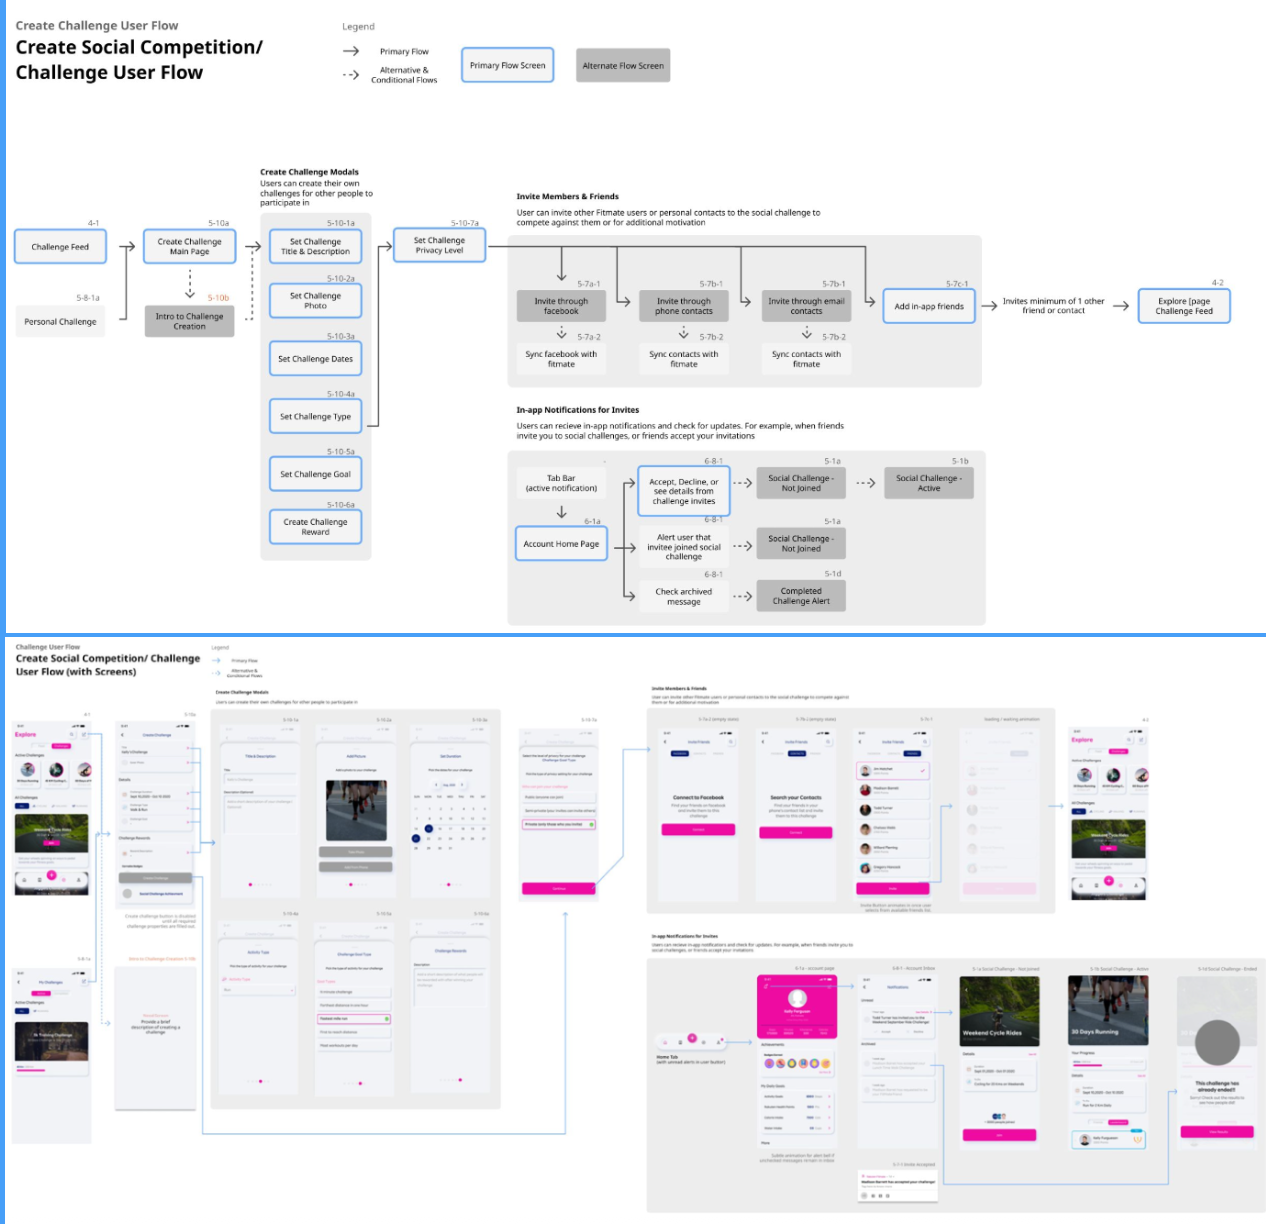
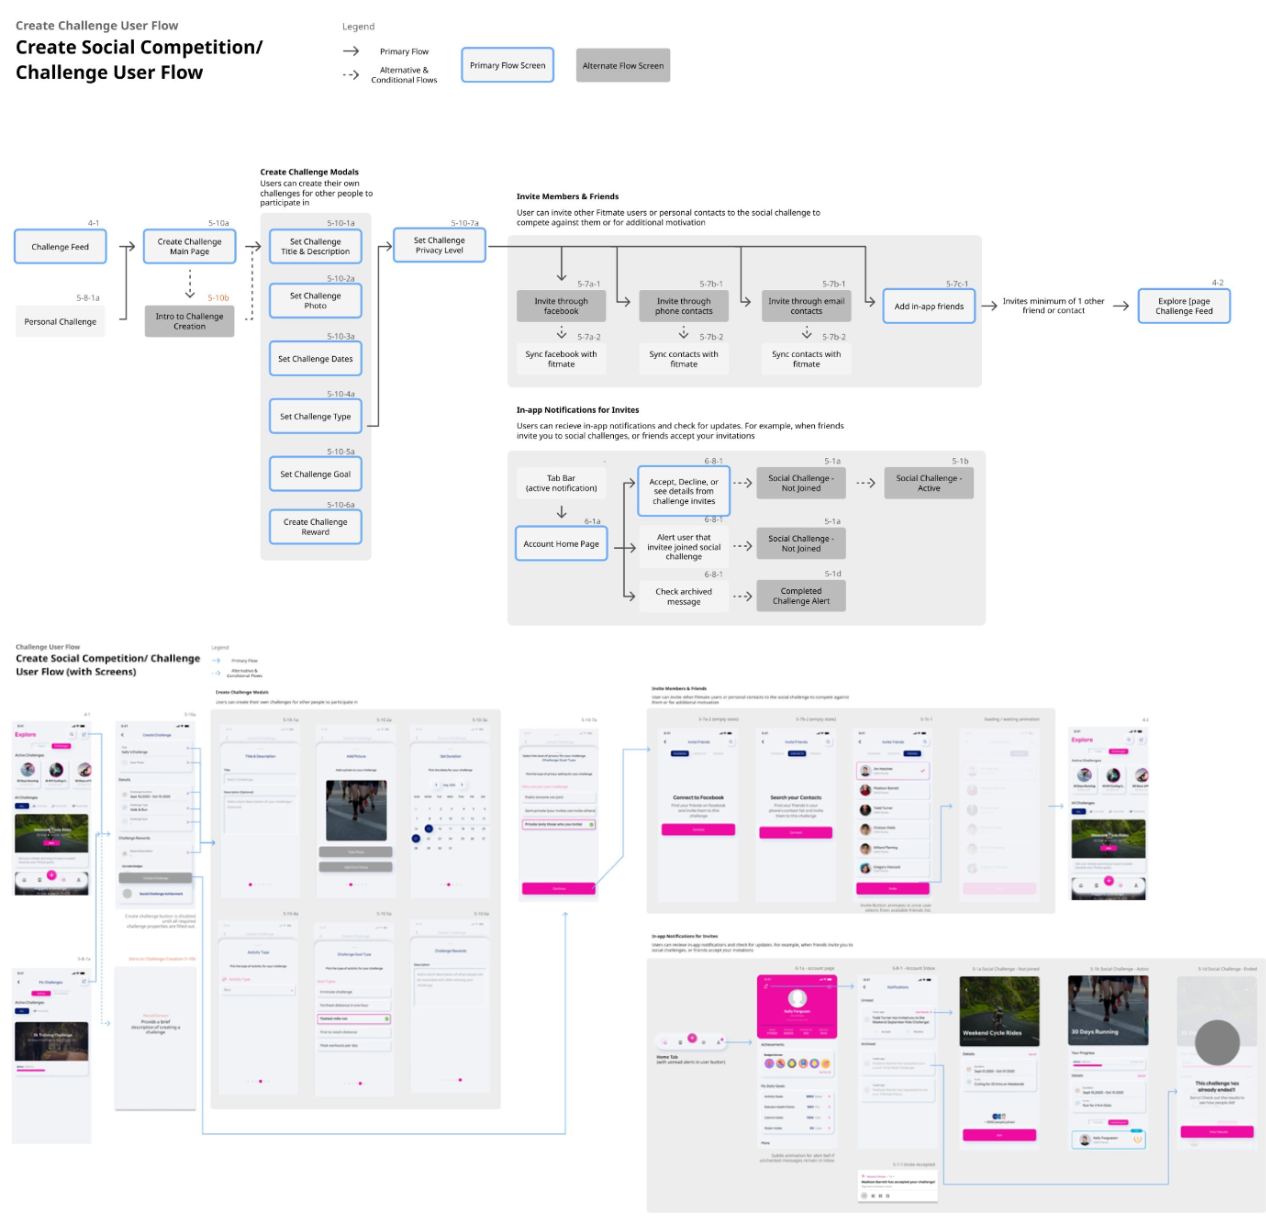
fix(rakuten-fit): remove blue Figma frame lines from userflow hero image
Replace 11,797 blue [71,159,248] border pixels with white background.

Changed region(s): [[0.0, 0.0, 1.0, 1.0]]

diff --git a/case-studies/rakuten-fit.html b/case-studies/rakuten-fit.html
@@ -177,7 +177,7 @@
 <!-- ===== CASE STUDY HERO ===== -->
 <section class="cs-hero">
   <div class="reveal">
-    <a href="../projects.html" class="cs-hero__back">← Projects</a>
+    <a href="Projects_Preview.html#audio" class="cs-hero__back">← Projects</a>
   </div>
   <div class="reveal" style="transition-delay: 0.05s">
     <p class="cs-hero__brand">Rakuten Fit</p>
@@ -189,10 +189,7 @@
     <p class="cs-hero__statement">Designing a fitness companion app that transforms physical activity into economic value — connecting a white-label wearable to the Rakuten Economic Zone's 111 million members, where steps become Rakuten Points and health data informs life insurance premiums.</p>
   </div>
   <div class="reveal" style="transition-delay: 0.2s">
-    <div class="cs-hero__image" data-kanji="健" style="background:#EDEDF0; --hero-kanji-color:rgba(0,0,0,0.03);">
-      <img src="../img/library/rakuten/rakuten-fit-userflow.png" alt="Rakuten Fit — Create Social Competition Challenge user flow diagram and mobile app screens" loading="eager" style="object-fit:contain;width:100%;height:100%;">
-          <span class="cs-hero__image-label" style="">Rakuten Fit · Social Challenge User Flow</span>
-    </div>
+    <div class="cs-hero__image">Hero image — Rakuten Fit daily dashboard with points earning</div>
   </div>
 </section>
 
@@ -279,10 +276,7 @@
 
         <p class="pull-quote">Every fitness app asks: how do we get users to exercise? Rakuten Fit asks: how do we make exercise economically productive?</p>
 
-        <div class="inline-image" data-kanji="動" data-label="Value Proposition · Ecosystem Stakeholders" style="background:#F5F5F7; --hero-kanji-color:rgba(0,0,0,0.03);">
-      <img src="../img/library/rakuten/rakuten-fit-value-proposition.png" alt="Rakuten Fit — Value Proposition slide and Ecosystem Stakeholders diagram" style="position:absolute;inset:0;width:100%;height:100%;object-fit:contain;display:block;" loading="lazy">
-      <span class="inline-image__label">Value Proposition · Ecosystem Stakeholders</span>
-    </div>
+        <div class="inline-image">Competitive landscape — Apple Health, Fitbit, Samsung Health vs. Rakuten ecosystem advantage</div>
 
         <p>Key constraints: white-label hardware with limited sensors, complex points economy across 70+ services, multi-stakeholder alignment (Mobile, Insurance, e-commerce), Japanese market specificity.</p>
       </div>
@@ -306,10 +300,7 @@
         <p>Nike co-branded experience proposal — seasonal challenges earning both Rakuten Points and exclusive Nike product access.</p>
         <p>Insurance data architecture: opt-in only, visible benefit, data transparency, user control, positive framing. "Your activity this month earned you ¥X in premium refund."</p>
 
-        <div class="inline-image" data-kanji="析" data-label="Competitive Analysis · Common User Flows in Fitness Apps" style="background:#F5F5F7; --hero-kanji-color:rgba(0,0,0,0.03);">
-      <img src="../img/library/rakuten/rakuten-fit-competitive.png" alt="Fitbit competitive analysis and common user flows in fitness apps research" style="position:absolute;inset:0;width:100%;height:100%;object-fit:contain;display:block;" loading="lazy">
-      <span class="inline-image__label">Competitive Analysis · Common User Flows in Fitness Apps</span>
-    </div>
+        <div class="inline-image">Insurance integration — health data → premium impact visualization</div>
       </div>
     </div>
 
@@ -371,12 +362,12 @@
 <!-- ===== PREV / NEXT ===== -->
 <div class="prev-next reveal">
   <div class="prev-next__inner">
-    <a href="denon-marantz.html" class="prev-next__item">
-      <p class="prev-next__dir">← Previous Case Study</p>
+    <a href="denon-marantz.html" class="prev-next__link prev-next__link--prev">
+      <p class="prev-next__label">← Previous Case Study</p>
       <p class="prev-next__title">Making Premium Audio Feel as Good as It Sounds</p>
     </a>
-    <a href="tdk.html" class="prev-next__item prev-next__item--next">
-      <p class="prev-next__dir">Next Case Study →</p>
+    <a href="tdk.html" class="prev-next__link prev-next__link--next">
+      <p class="prev-next__label">Next Case Study →</p>
       <p class="prev-next__title">Three Companies, One Intelligent Interface</p>
     </a>
   </div>
